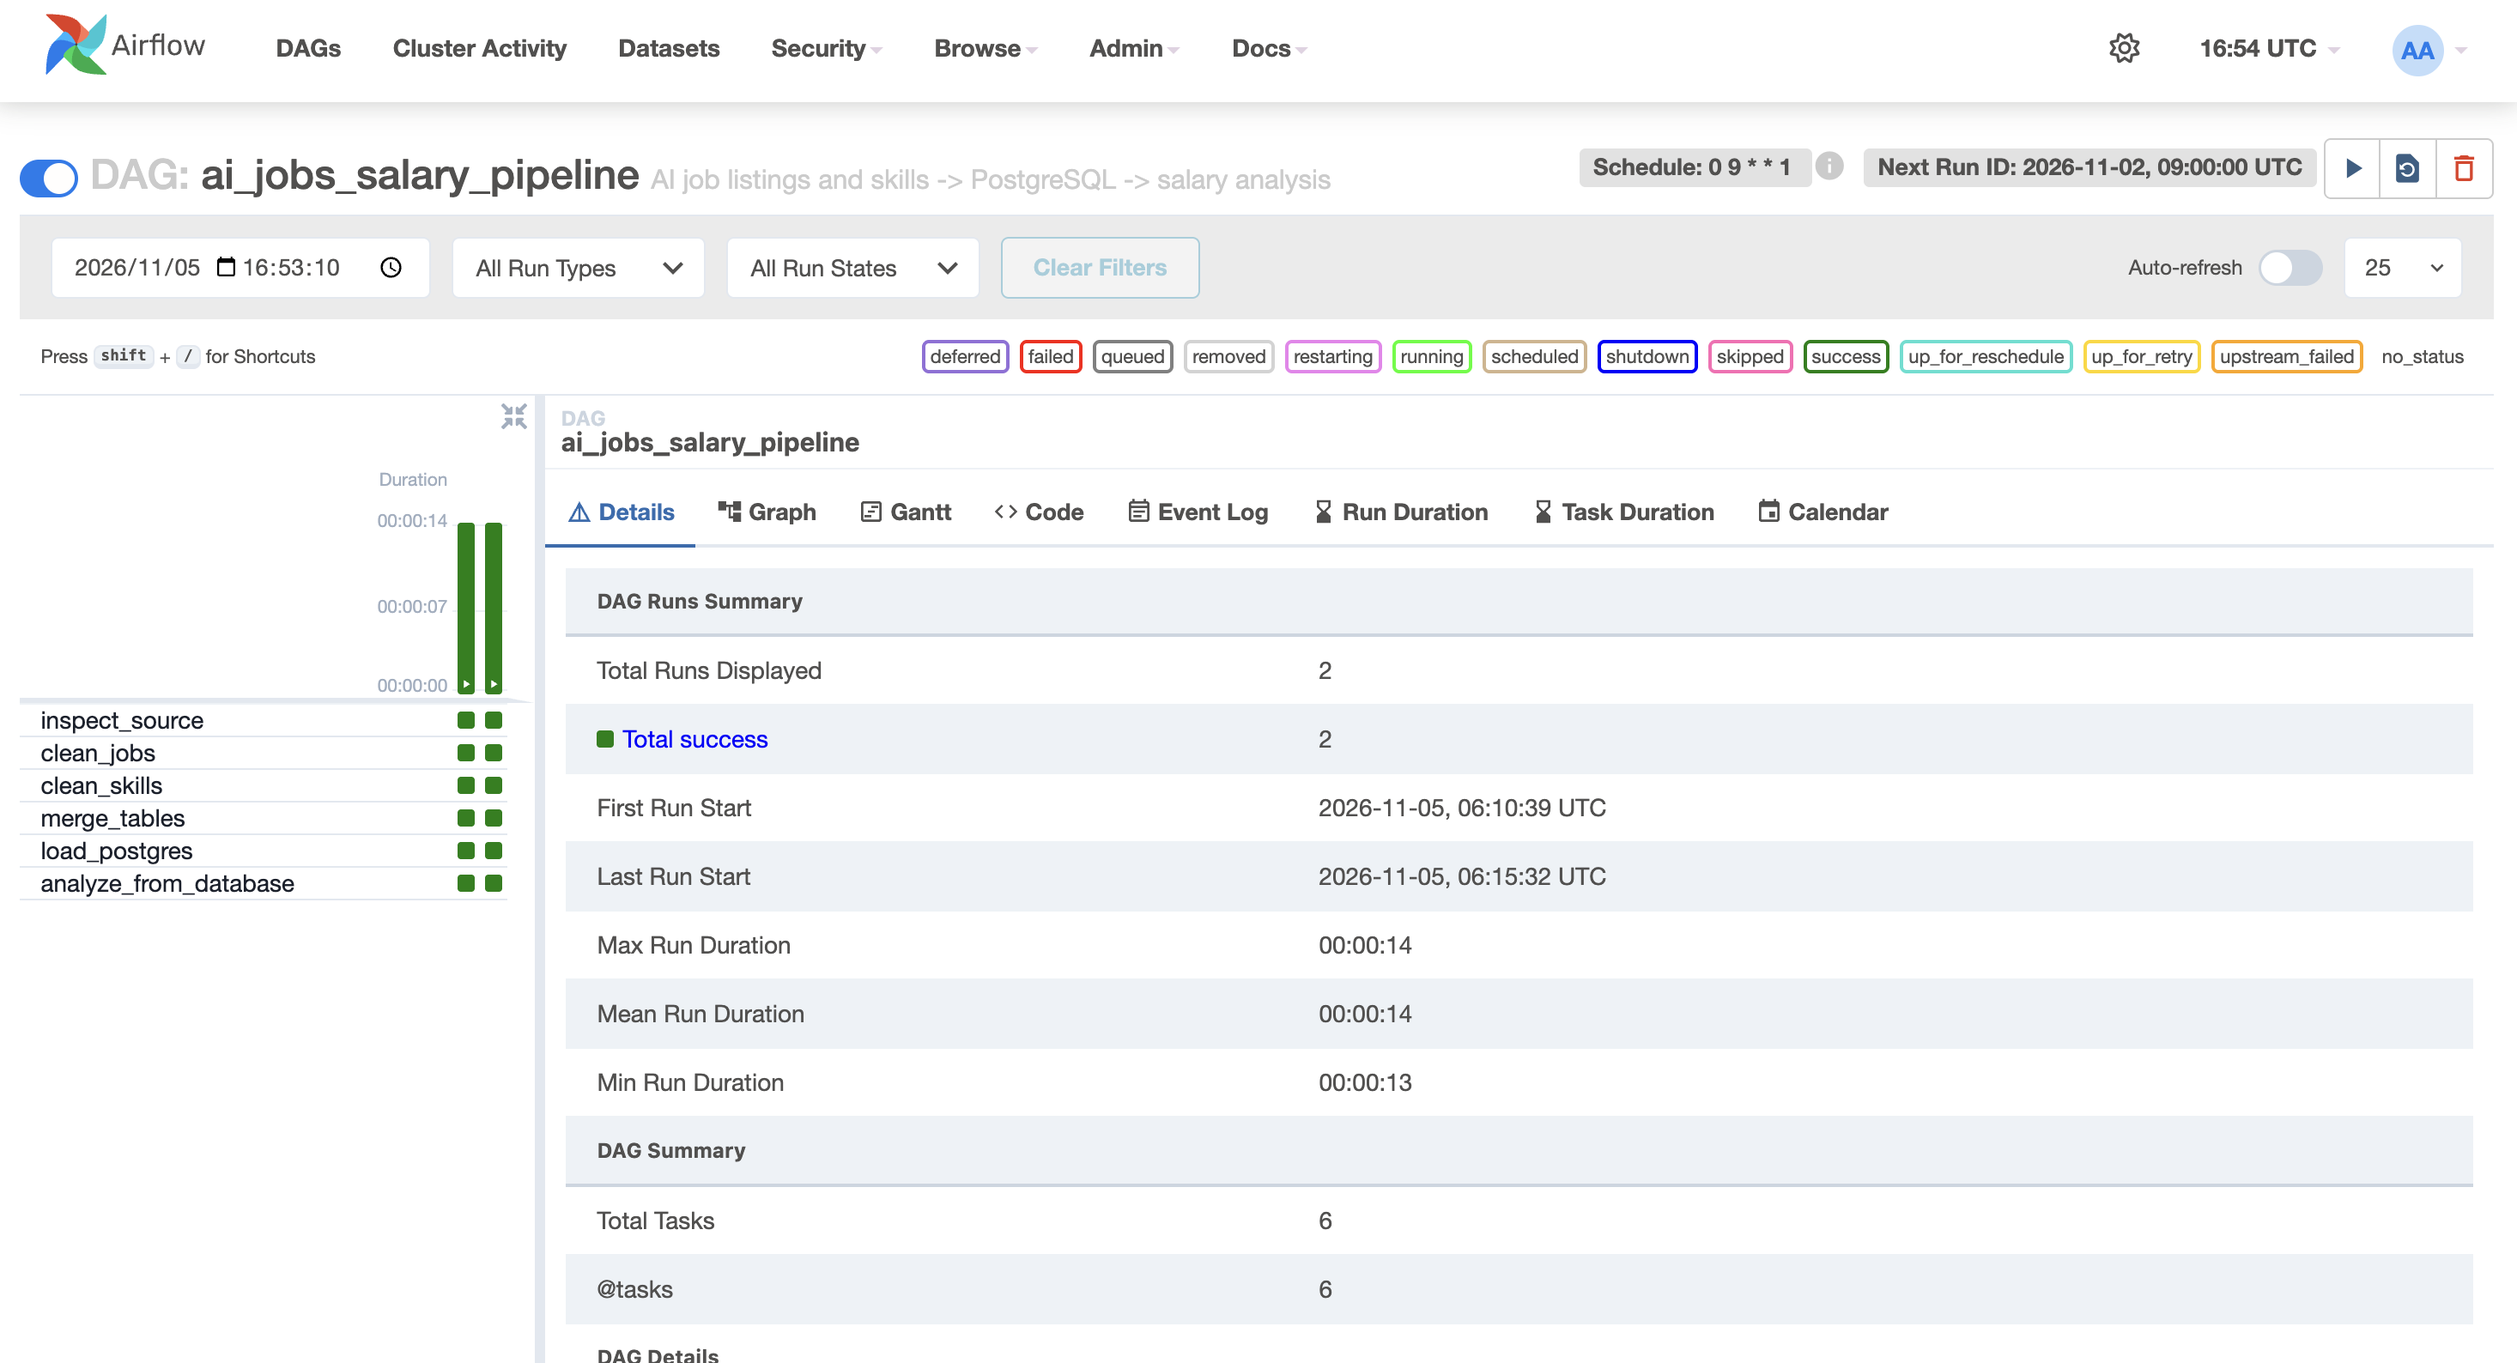
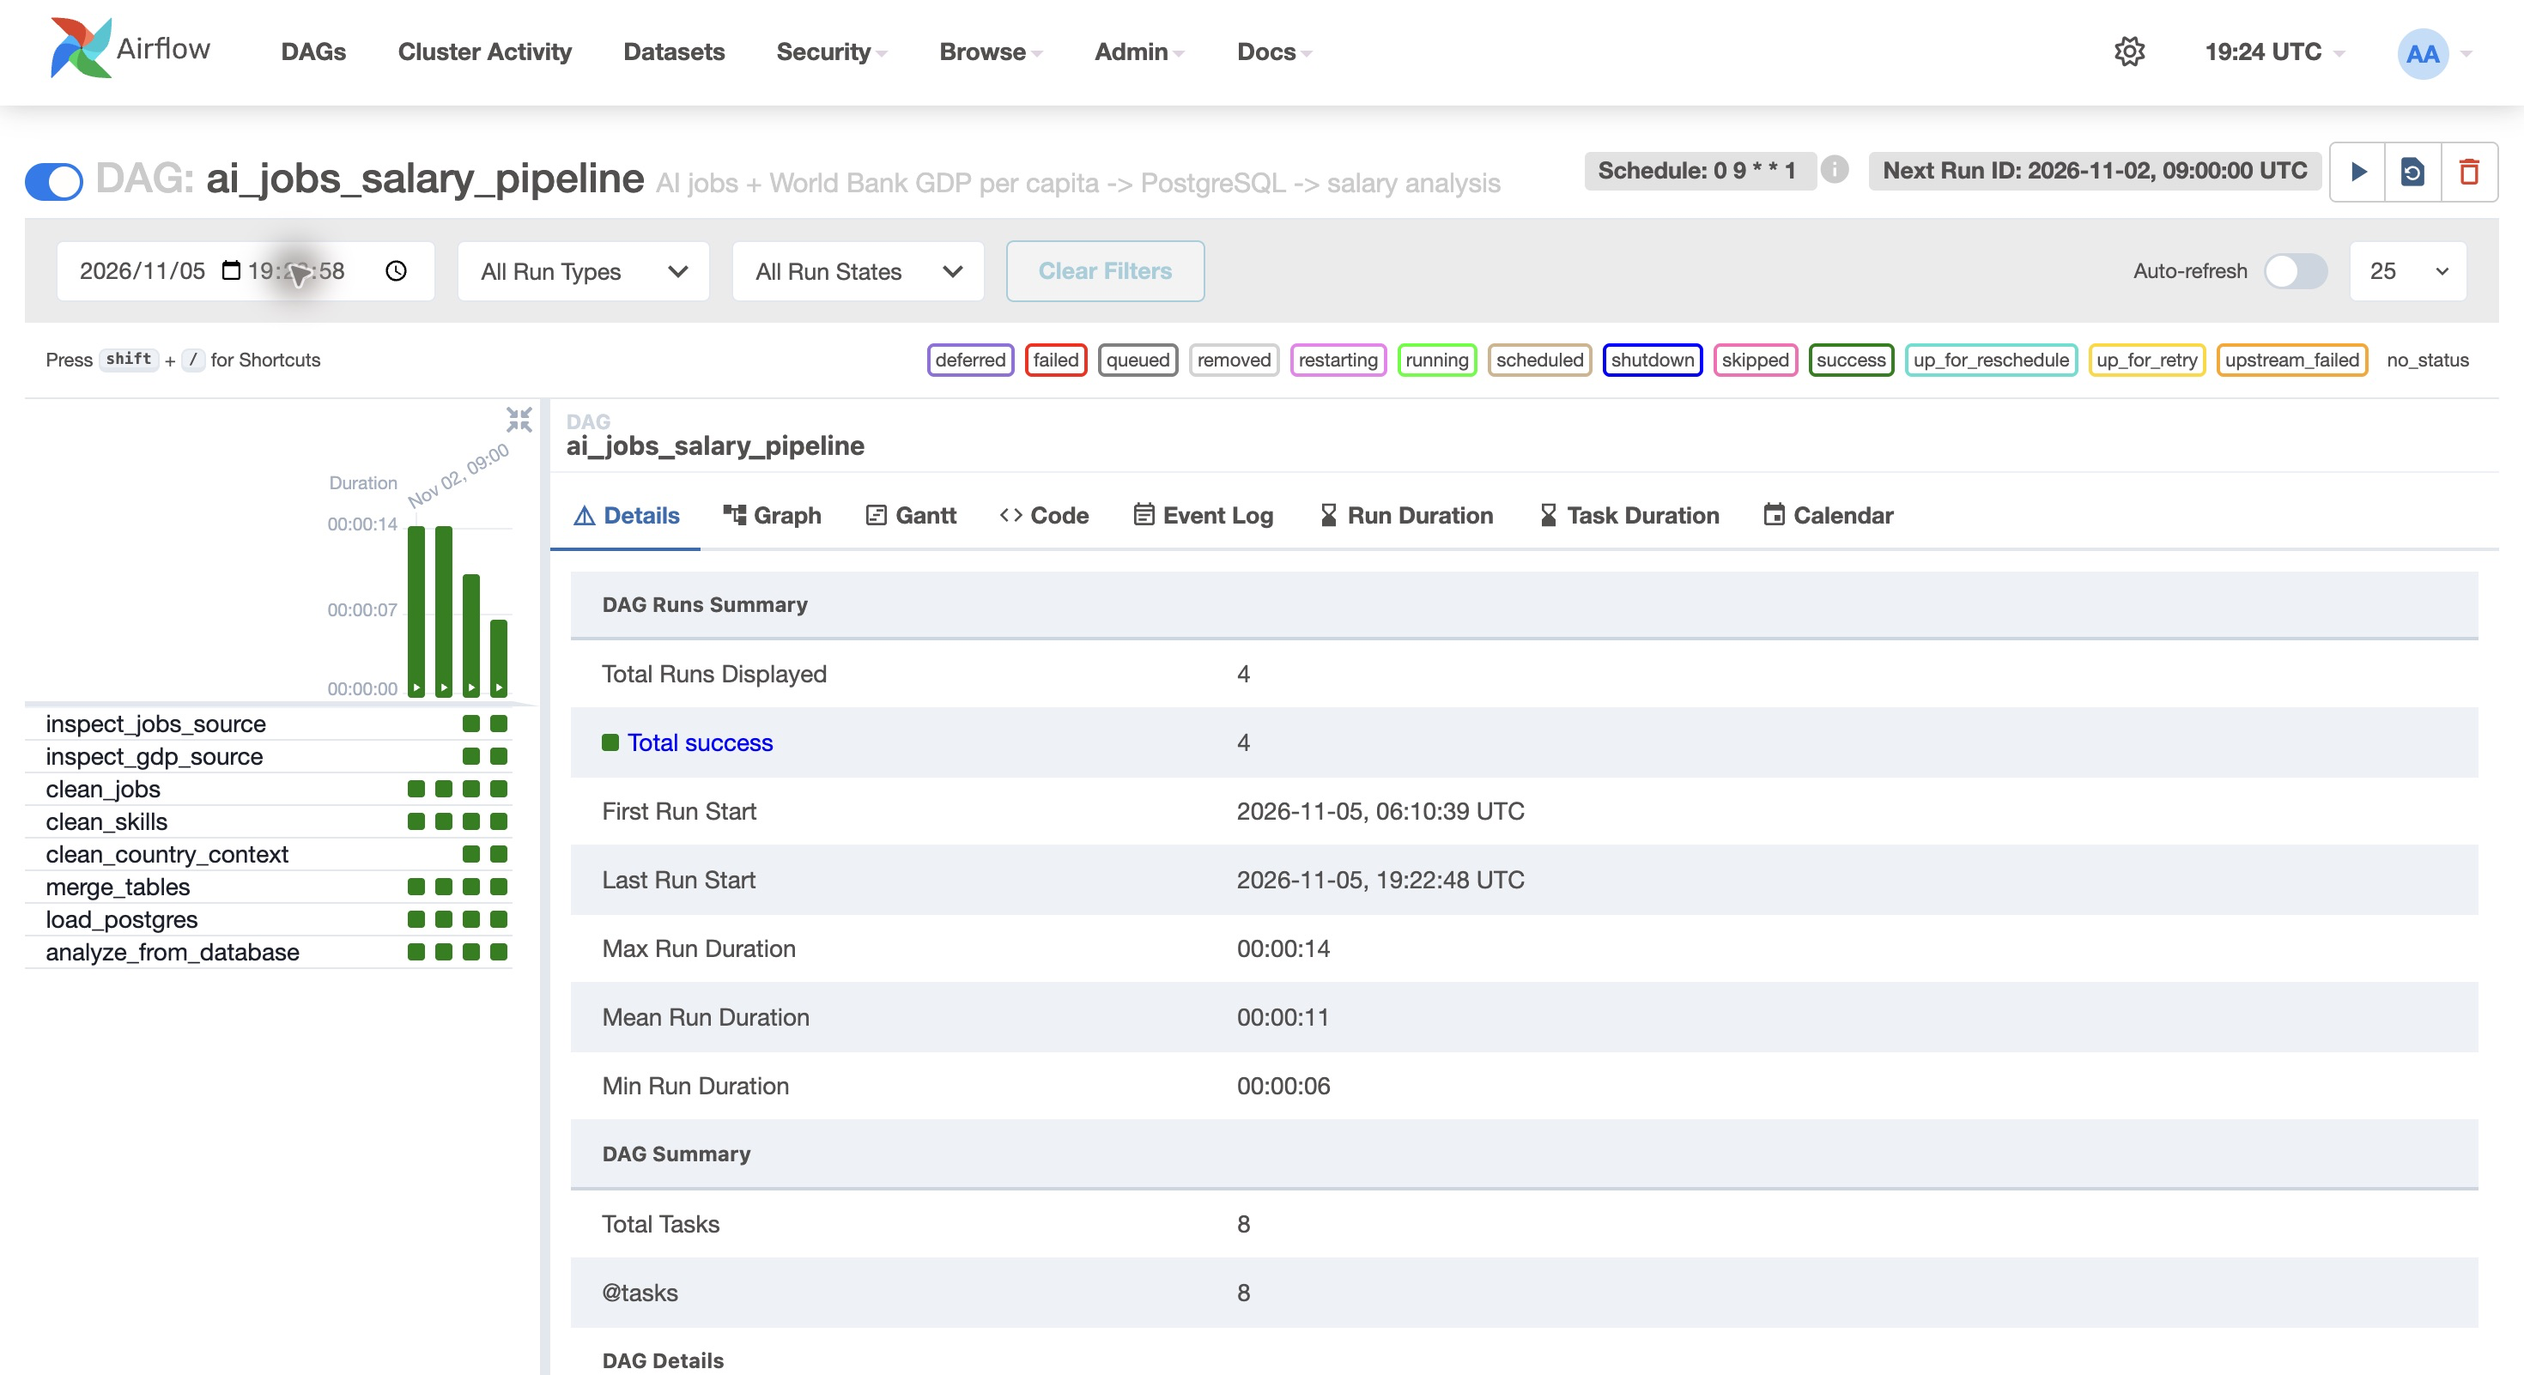
Document two-source runs and refresh workflow evidence

diff --git a/frontend/src/pages/AiJobsLoopPage.tsx b/frontend/src/pages/AiJobsLoopPage.tsx
@@ -96,7 +96,7 @@ export function AiJobsLoopPage() {
           <div>
             <p className="font-mono text-xs uppercase tracking-[0.2em] text-teal">Week 11 · Part 2</p>
             <h1 className="font-display text-4xl font-semibold">AI Jobs Salary Loop</h1>
-            <p className="mt-2 max-w-3xl text-sm text-mist">LangGraph agents train and compare regressors on the table produced by Airflow. Lower mean absolute error (MAE) is better.</p>
+            <p className="mt-2 max-w-3xl text-sm text-mist">LangGraph agents train and compare salary regressors on Airflow's joined jobs and World Bank country data. Lower mean absolute error (MAE) is better.</p>
           </div>
           <Link to="/student-loop" className="text-sm text-teal hover:underline">Classroom build loop ↗</Link>
         </div>

diff --git a/docs/AI_JOBS_PART1.md b/docs/AI_JOBS_PART1.md
@@ -2,29 +2,31 @@
 
 ## Data and transformations
 
-Source: `datasets/ai_jobs/ai_jobs_market_2025_2026.csv` (1,500 AI job postings from the student's earlier AI Jobs project). The source is copied into this repository so Docker can mount it at `/repo/datasets/ai_jobs/`. Its original external provenance was not supplied.
+The first source is `datasets/ai_jobs/ai_jobs_market_2025_2026.csv` (1,500 AI job postings from my earlier AI Jobs project). Its original external provenance was not supplied. The second, independent source is a 2024 snapshot of the World Bank's [GDP per capita (current US$) indicator](https://data.worldbank.org/indicator/NY.GDP.PCAP.CD), stored at `datasets/ai_jobs/world_bank_gdp_per_capita_2024.csv`. I downloaded the observations for the 13 countries named in the jobs file from the [World Bank API](https://api.worldbank.org/v2/country/US;GB;SG;IN;JP;CN;CA;AE;NL;FR;AU;DE;CH/indicator/NY.GDP.PCAP.CD?date=2024&format=json&per_page=100) and committed the snapshot so runs are reproducible. Docker mounts both files at `/repo/datasets/ai_jobs/`.
 
-The one source file contains two related logical datasets:
+Airflow creates three cleaned tables from the two sources:
 
 | Table | Grain | Cleaning |
 | --- | --- | --- |
 | `ai_jobs.jobs` | One row per `job_id` | Trim text, convert numeric fields, remove duplicate IDs and rows with missing/invalid required values |
 | `ai_jobs.job_skills` | One row per `(job_id, skill)` | Split `required_skills` on `|`, trim/lowercase, remove empty tokens and duplicate pairs |
+| `ai_jobs.country_context` | One row per country | Check 2024 year, positive GDP per capita, unique ISO3 code, and coverage of all named job countries |
 
-The DAG merges skill counts and a Python-skill flag into `ai_jobs.jobs_enriched` (one row per job). The three business tables live in a separate `ai_jobs` schema of the existing PostgreSQL container. The load replaces their contents in one transaction, so a retry does not duplicate rows.
+The DAG merges skill counts and a Python-skill flag with the jobs, then joins GDP per capita on ISO3 country code into `ai_jobs.jobs_enriched` (one row per job). The four tables live in a separate `ai_jobs` schema of the existing PostgreSQL container. The load replaces their contents in one transaction, so a retry does not duplicate rows. The 82 jobs labeled `Global` have no country-specific GDP observation; the left join keeps those jobs with a null GDP value.
 
 The raw file has no blank fields or duplicate job IDs. Some skill lists repeat a token within a job; the skill table removes those duplicates. Some `annual_salary_usd` values are outside the source's `salary_min_usd`/`salary_max_usd` range. This pipeline uses the annual salary as reported and does not treat those ranges as validation rules.
 
 ## Graph, scheduling, and analysis
 
 ```text
-inspect_source ─┬─> clean_jobs ───┐
-                └─> clean_skills ─┴─> merge_tables ─> load_postgres ─> analyze_from_database
+inspect_jobs_source ─┬─> clean_jobs ───────────┐
+                     └─> clean_skills ─────────┤
+inspect_gdp_source ─────> clean_country_context ┴─> merge_tables ─> load_postgres ─> analyze_from_database
 ```
 
-The DAG ID is `ai_jobs_salary_pipeline`. It runs Mondays at 09:00 in Airflow's configured timezone (UTC by default), with `catchup=False`. Its two cleaning tasks are independent and can run in parallel under the configured `LocalExecutor`. `max_active_runs=1` prevents overlapping full-table loads.
+The DAG ID is `ai_jobs_salary_pipeline`. It runs Mondays at 09:00 UTC, with `catchup=False`. The two source inspections and three cleaning tasks can run in parallel under the configured `LocalExecutor`; the merge waits for all three cleaned inputs. `max_active_runs=1` prevents overlapping full-table loads.
 
-The analysis task reads `ai_jobs.jobs_enriched` back from PostgreSQL, computes job counts and mean salary by category, and creates a bar chart. Per-run outputs are in `artifacts/airflow/ai_jobs/<run-key>/`: `jobs_clean.csv`, `skills_clean.csv`, `jobs_enriched.csv`, `salary_by_category.csv`, `salary_by_category.png`, and `analysis.json`. It also writes `datasets/ai_jobs/ai_jobs_clean_latest.csv` from the database as the Part 2 handoff.
+The analysis task reads `ai_jobs.jobs_enriched` back from PostgreSQL, computes job counts and mean salary by category, and creates a bar chart. Per-run outputs are in `artifacts/airflow/ai_jobs/<run-key>/`: `jobs_clean.csv`, `skills_clean.csv`, `country_context_clean.csv`, `jobs_enriched.csv`, `salary_by_category.csv`, `salary_by_category.png`, and `analysis.json`. It also writes `datasets/ai_jobs/ai_jobs_clean_latest.csv` from the database as the Part 2 handoff.
 
 ![Mean annual salary by AI job category](images/ai_jobs_salary_by_category.png)
 
@@ -39,7 +41,7 @@ docker compose -f infra/docker-compose.yml --env-file .env --profile airflow exe
 docker compose -f infra/docker-compose.yml --env-file .env --profile airflow exec airflow-scheduler airflow dags list-runs -d ai_jobs_salary_pipeline
 ```
 
-Airflow UI: <http://localhost:8088>. Open the DAG and its Graph and Grid tabs. The [Grid screenshot](images/ai_jobs_airflow_grid.png) shows two successful runs and all six tasks in green; the [Graph screenshot](images/ai_jobs_airflow_graph.png) shows the task dependencies. The default login is `admin` / `admin`, unless changed in `.env`.
+Airflow UI: <http://localhost:8088>. Open the DAG and its Graph and Grid tabs. The [Grid screenshot](images/ai_jobs_airflow_grid.png) shows the successful runs and eight tasks; the [Graph screenshot](images/ai_jobs_airflow_graph.png) shows the task dependencies. The default login is `admin` / `admin`, unless changed in `.env`.
 
 Check the database and report:
 
@@ -53,4 +55,4 @@ The published CSV has target `annual_salary_usd`, suitable for a regression work
 
 ## Verified local run (November 5, 2026)
 
-Two manual DAG runs completed successfully. After the second run, PostgreSQL still contained 1,500 jobs, 9,428 distinct job-skill links, and 1,500 enriched records, confirming that reruns do not duplicate data. The mean annual salary was $194,892. Architecture had the highest category mean at $251,576.92. These are descriptive results from the supplied CSV, not model evaluation metrics. The latest run report and chart were generated under `artifacts/airflow/ai_jobs/b826cc6a3481dd22/`.
+The revised DAG completed twice successfully after two successful runs of the earlier version. After the second revised run, PostgreSQL still contained 1,500 jobs, 9,428 distinct job-skill links, 13 country observations, and 1,500 enriched records. GDP per capita matched 1,418 jobs, leaving only the 82 Global jobs unmatched. The mean annual salary was $194,892. Architecture had the highest category mean at $251,576.92. These are descriptive results from the supplied postings, not model evaluation metrics. The latest run report and chart were generated under `artifacts/airflow/ai_jobs/8e889f6769e78233/`.

diff --git a/README.md b/README.md
@@ -1,10 +1,10 @@
 # AI Jobs Pipeline — Week 11 Mini-Assignment
 
-This repository began as the class AutoML Research Lab. For Part 1 of my Week 11 assignment, I added an Airflow pipeline for the AI jobs dataset from my earlier project. The class fraud example is still in the repository, but the new DAG uses only the AI jobs data. Part 2 uses the output of that DAG to train and compare salary models.
+This repository began as the class AutoML Research Lab. For Part 1 of my Week 11 assignment, I added an Airflow pipeline that combines AI job postings from my earlier project with country data from the World Bank. The class fraud example is still in the repository. Part 2 uses the output of the new DAG to train and compare salary models.
 
 ## What the pipeline does
 
-The source is [`ai_jobs_market_2025_2026.csv`](datasets/ai_jobs/ai_jobs_market_2025_2026.csv), with 1,500 job postings. I treat each posting and its pipe-separated skills as two related tables. Airflow cleans the jobs and skills in parallel, joins skill counts and a Python-skill flag back to the jobs, and loads all three tables into the `ai_jobs` schema in PostgreSQL. The final task reads the joined table from PostgreSQL to make the salary chart below. It also exports `datasets/ai_jobs/ai_jobs_clean_latest.csv` for Part 2.
+The two independent sources are [`ai_jobs_market_2025_2026.csv`](datasets/ai_jobs/ai_jobs_market_2025_2026.csv), with 1,500 postings from my earlier project, and a [World Bank GDP per capita](https://data.worldbank.org/indicator/NY.GDP.PCAP.CD) snapshot for 2024, saved as [`world_bank_gdp_per_capita_2024.csv`](datasets/ai_jobs/world_bank_gdp_per_capita_2024.csv). Airflow also splits the postings' skill lists into a job-skill table. It cleans jobs, skills, and country data in parallel, then joins skill counts and GDP per capita by country. The four resulting tables are loaded into PostgreSQL. The final task reads the joined table back from PostgreSQL to make the salary chart and exports `datasets/ai_jobs/ai_jobs_clean_latest.csv` for Part 2. Global postings have no country match and keep a null GDP value.
 
 The DAG, `ai_jobs_salary_pipeline`, is scheduled for Mondays at 09:00 UTC. It uses Airflow's `LocalExecutor`, and only one DAG run can load the tables at a time. See [the Part 1 notes](docs/AI_JOBS_PART1.md) for the cleaning rules and task graph.
 
@@ -23,7 +23,7 @@ Airflow is at <http://localhost:8088>. The default login is `admin` / `admin`, u
 
 ## What I found
 
-I ran the DAG twice on November 5, 2026. Both runs succeeded. The database still had 1,500 jobs, 9,428 distinct job-skill pairs, and 1,500 joined rows after the second run, so the load did not duplicate data. Across the supplied postings, mean annual salary was $194,892. Architecture had the highest category mean at $251,576.92. This is a descriptive comparison of the supplied records, not an estimate of what a job category causes someone to earn.
+I ran the revised DAG twice successfully on November 5, 2026, after two successful runs of the earlier version. After the second revised run, PostgreSQL contained 1,500 jobs, 9,428 distinct job-skill pairs, 13 country observations, and 1,500 joined rows, with no duplicates from the rerun. Country data matched 1,418 postings; the other 82 were labeled Global. Across the postings, mean annual salary was $194,892. Architecture had the highest category mean at $251,576.92. This is a descriptive comparison of the supplied records, not an estimate of what a job category causes someone to earn.
 
 ![Mean annual salary by job category](docs/images/ai_jobs_salary_by_category.png)
 
@@ -35,7 +35,7 @@ I built a separate LangGraph workflow for salary regression in [`ai_jobs_loop/gr
 
 Run Part 1 first so `datasets/ai_jobs/ai_jobs_clean_latest.csv` exists. Then start the web app with `make start-mac` (or `make start-windows` from Git Bash) and open <http://127.0.0.1:5173/ai-jobs-loop>. Click **Run agent loop**. No API key is needed. The planner starts with Ridge, then compares its validation MAE with a mean-prediction baseline. An improvement below 10% sends the next trial to Random Forest; otherwise it tries Extra Trees. The judge stops when the target MAE is met or the trial budget is used. The page shows each decision in Agent activity. To let OpenRouter choose among untried models instead, set `AI_JOBS_USE_LLM=true` and `OPENROUTER_API_KEY` in `.env`, then restart the gateway.
 
-I used a fixed 60% training / 20% validation / 20% holdout split with seed 42. Only validation MAE selects the model; the holdout is used once at the end. With three trials, Ridge had the lowest validation MAE ($49,575.28). Its holdout MAE was $52,281.79 and holdout R² was 0.0695, compared with $53,456.47 MAE for a mean-prediction baseline. The improvement is small, and the low R² means these features explain little of the salary variation in this dataset.
+The model uses the joined GDP per capita value alongside job fields; IDs and salary-derived fields are excluded. I used a fixed 60% training / 20% validation / 20% holdout split with seed 42. Only validation MAE selects the model; the holdout is used once at the end. With three trials, Ridge had the lowest validation MAE ($44,479.50). Its holdout MAE was $43,857.32 and holdout R² was 0.2681, compared with $53,456.47 MAE for a mean-prediction baseline. The improvement is useful for prediction on this split, although the modest R² leaves substantial salary variation unexplained.
 
 Evidence: [live agent graph](docs/images/ai_jobs_agent_graph.png) · [model evaluation results](docs/images/ai_jobs_model_results.png).
 
